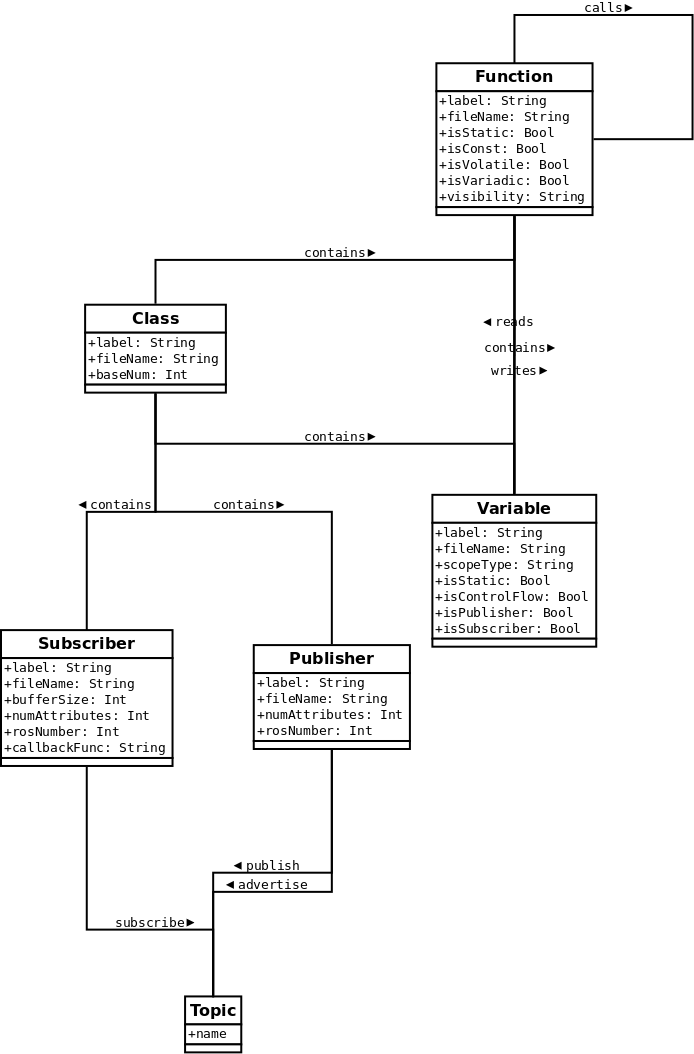
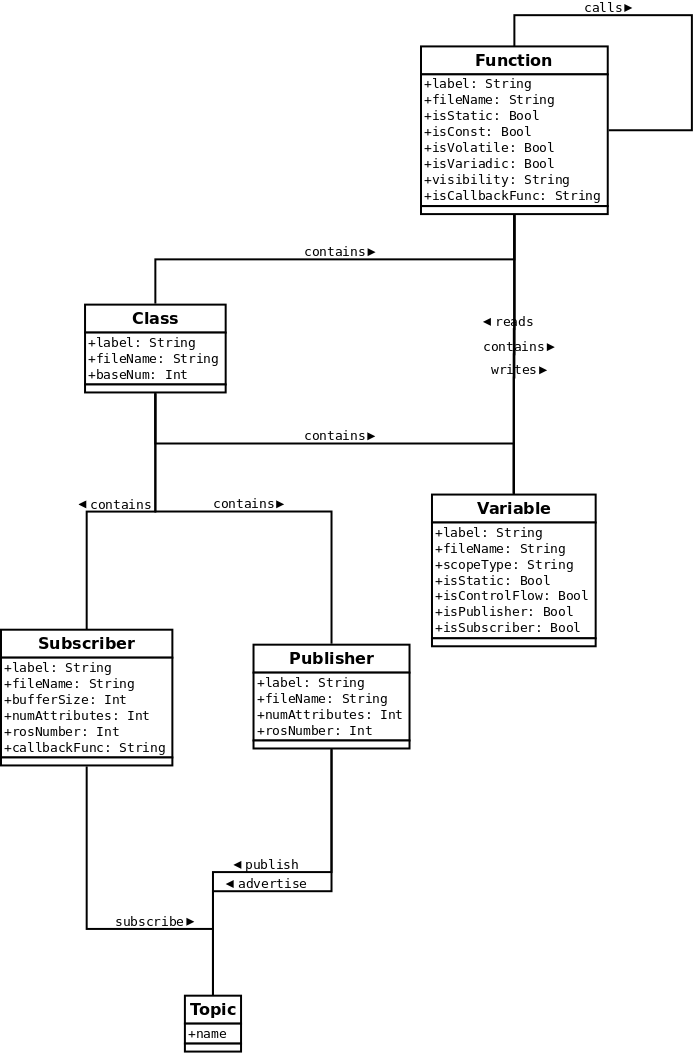
Added new callback attr

diff --git a/Walker/ParentWalker.cpp b/Walker/ParentWalker.cpp
@@ -13,6 +13,7 @@ using namespace std;
 
 TAGraph* ParentWalker::graph = new TAGraph();
 vector<TAGraph*> ParentWalker::graphList = vector<TAGraph*>();
+std::string ParentWalker::CALLBACK_FLAG = "isCallbackFunc";
 
 ParentWalker::ParentWalker(ASTContext *Context) : Context(Context) {
     ignoreLibraries.push_back(STANDARD_IGNORE);
@@ -688,6 +689,7 @@ void ParentWalker::recordSubscribe(const CallExpr* expr){
     //Finally, adds in the callback function.
     RexEdge* callbackEdge;
     if (callback){
+        callback->addSingleAttribute(CALLBACK_FLAG, "1");
         callbackEdge = new RexEdge(currentSubscriber, callback, RexEdge::CALLS);
     } else {
         //Remove the & at the beginning.

diff --git a/Graph/TAGraph.cpp b/Graph/TAGraph.cpp
@@ -6,6 +6,7 @@
 #include <openssl/md5.h>
 #include <cstring>
 #include <assert.h>
+#include "../Walker/ROSWalker.h"
 #include "TAGraph.h"
 
 using namespace std;
@@ -326,6 +327,12 @@ bool TAGraph::resolveEdge(RexEdge *edge) {
         if (destNode == nullptr) return false;
 
         edge->setDestination(destNode);
+    }
+
+    //Checks for callback.
+    if (edge->getType() == RexEdge::CALLS && edge->getSource()->getType() == RexNode::SUBSCRIBER &&
+            edge->getDestination()->getType() == RexNode::FUNCTION){
+        edge->getDestination()->addSingleAttribute(ROSWalker::CALLBACK_FLAG, "1");
     }
 
     return true;

diff --git a/Walker/ROSWalker.cpp b/Walker/ROSWalker.cpp
@@ -103,6 +103,7 @@ void ROSWalker::recordFunctionDecl(const FunctionDecl* decl){
 
     //Creates the node.
     RexNode* node = new RexNode(ID, name, RexNode::FUNCTION);
+    node->addSingleAttribute(CALLBACK_FLAG, "0");
     graph->addNode(node);
 
     //Get the parent.

diff --git a/Walker/ParentWalker.h b/Walker/ParentWalker.h
@@ -40,6 +40,8 @@ public:
     //Processing Operations
     void addLibrariesToIgnore(std::vector<std::string> libraries);
 
+    static std::string CALLBACK_FLAG;
+
 protected:
     static TAGraph* graph;
     static std::vector<TAGraph*> graphList;
